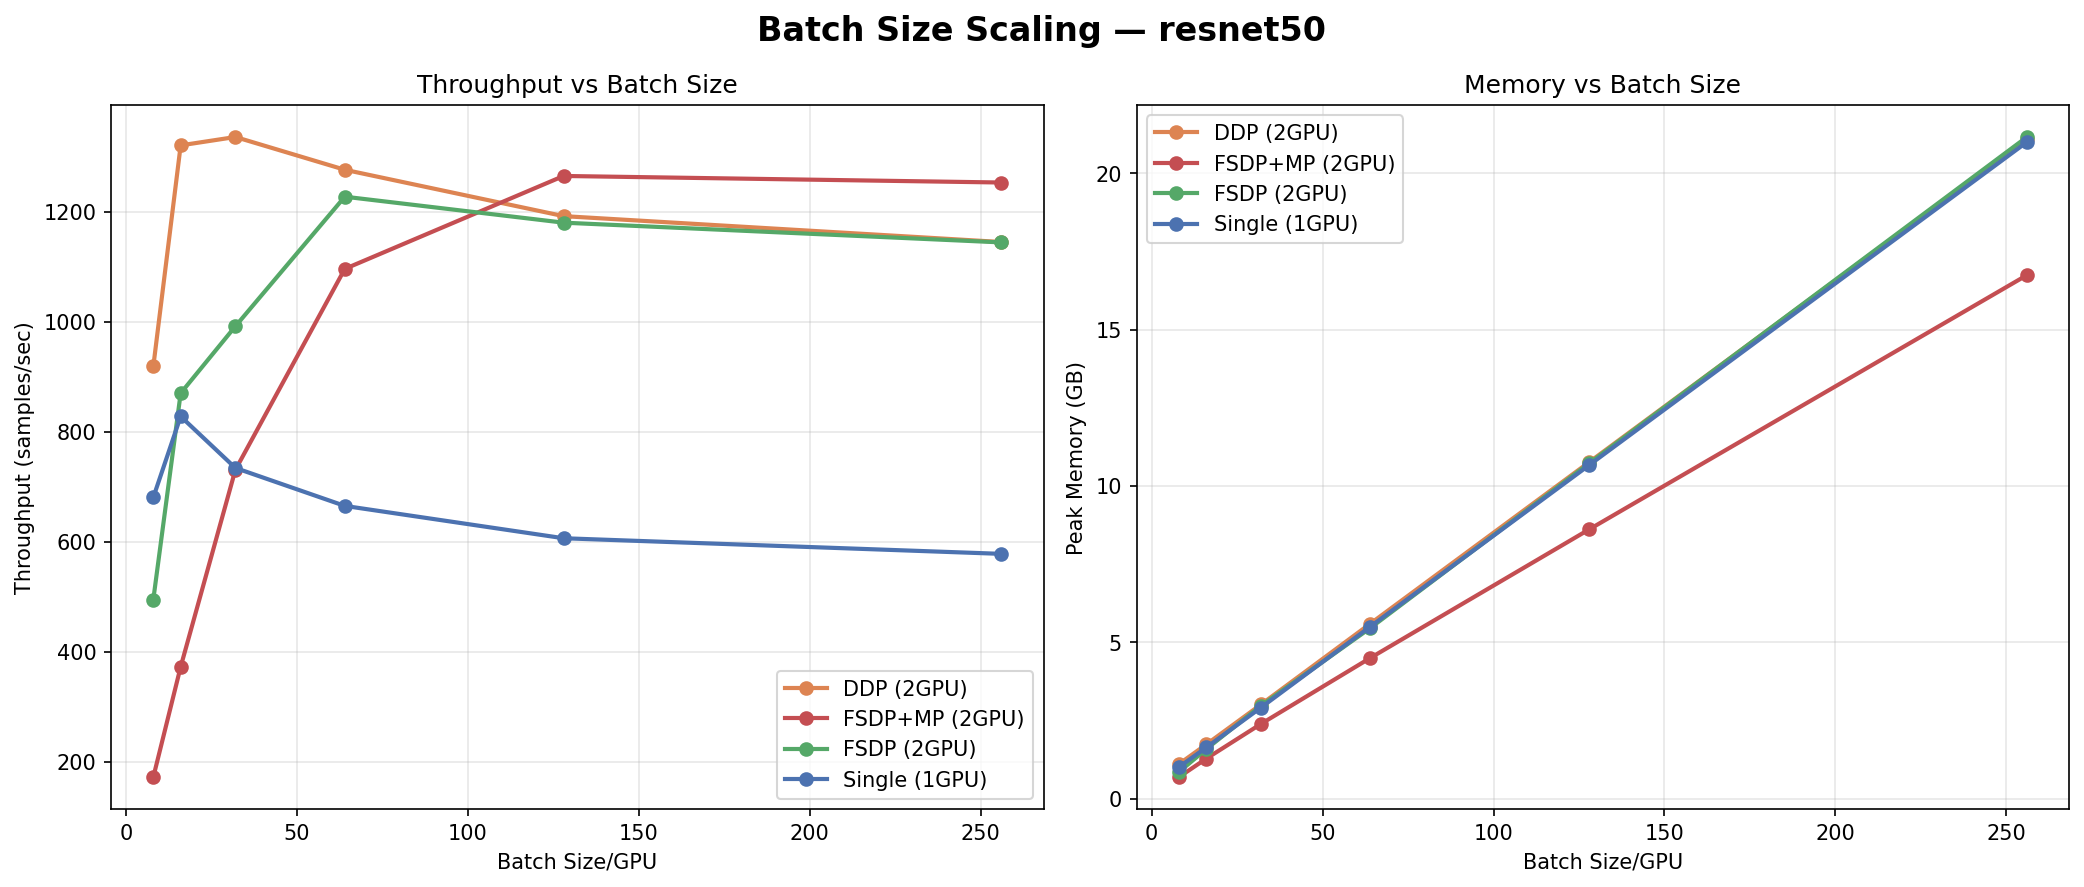
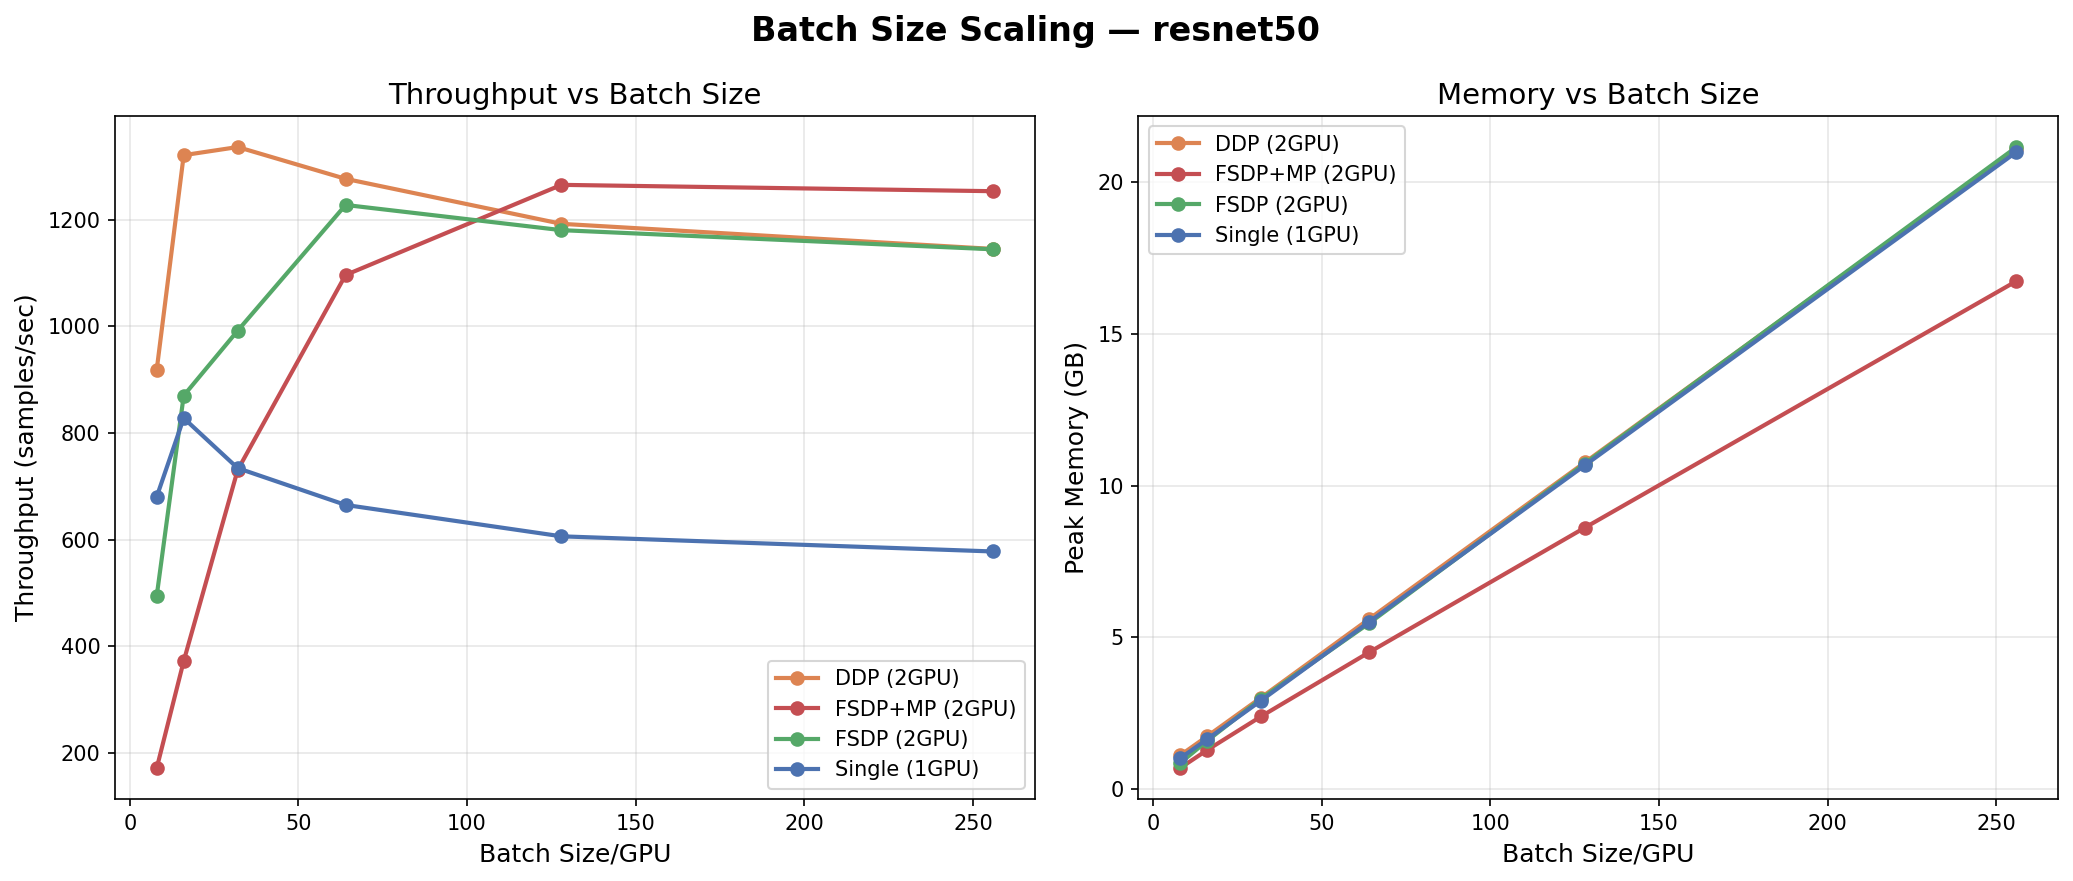
Improve   report: stronger contributions, figure   legibility, conclusion

diff --git a/report/report.tex b/report/report.tex
@@ -1,0 +1,263 @@
+%%
+%% FSDP Benchmark Report - ACM sigconf format
+%%
+%TC:macro \cite [option:text,text]
+%TC:macro \citep [option:text,text]
+%TC:macro \citet [option:text,text]
+%TC:envir table 0 1
+%TC:envir table* 0 1
+%TC:envir tabular [ignore] word
+%TC:envir displaymath 0 word
+%TC:envir math 0 word
+%TC:envir comment 0 0
+%%
+\documentclass[sigconf]{acmart}
+
+\AtBeginDocument{%
+  \providecommand\BibTeX{{%
+    Bib\TeX}}}
+
+\setcopyright{none}
+\settopmatter{printacmref=false, printfolios=true}
+\renewcommand\footnotetextcopyrightpermission[1]{}
+\pagestyle{plain}
+
+\begin{document}
+
+\title{Benchmarking PyTorch FSDP: Memory-Efficient Distributed Training for Vision Models}
+
+\author{Shanzita Siddiqua}
+\email{[email redacted]}
+\affiliation{%
+  \institution{Rice University}
+  \city{Houston}
+  \state{Texas}
+  \country{USA}}
+
+\renewcommand{\shortauthors}{Siddiqua}
+
+\begin{abstract}
+Training large deep learning models is increasingly constrained by GPU memory capacity. Fully Sharded Data Parallel (FSDP) addresses this by sharding model parameters, gradients, and optimizer states across GPUs, enabling training of models that exceed single-GPU memory. We present a comprehensive benchmark comparing FSDP against single-GPU and DistributedDataParallel (DDP) training across 10 configurations, two vision models (ResNet-50 with 25.6M parameters and ViT-B/16 with 86.6M parameters), and multiple optimization techniques including mixed precision, activation checkpointing, CPU offloading, and gradient accumulation. On NVIDIA L40S GPUs, FSDP with mixed precision and activation checkpointing achieves up to 82\% memory reduction (from 5.16\,GB to 0.92\,GB per GPU for ViT-B/16) while FSDP with mixed precision alone delivers 2.3$\times$ higher throughput than single-GPU training. Our GPU scaling study shows DDP achieves 95--97\% scaling efficiency versus 82--94\% for FSDP, quantifying the communication overhead introduced by parameter sharding. Batch size scaling experiments reveal that FSDP with mixed precision reaches peak throughput of 1472 samples/sec at batch size 128 for ViT-B/16, 3.2$\times$ higher than DDP's peak. We provide practical guidelines for selecting FSDP configurations based on memory and throughput requirements.
+\end{abstract}
+
+\begin{CCSXML}
+<ccs2012>
+ <concept>
+  <concept_id>10010147.10010169.10010170</concept_id>
+  <concept_desc>Computing methodologies~Parallel computing methodologies</concept_desc>
+  <concept_significance>500</concept_significance>
+ </concept>
+ <concept>
+  <concept_id>10010147.10010257.10010293.10010294</concept_id>
+  <concept_desc>Computing methodologies~Neural networks</concept_desc>
+  <concept_significance>300</concept_significance>
+ </concept>
+ <concept>
+  <concept_id>10010520.10010521.10010537.10010540</concept_id>
+  <concept_desc>Computer systems organization~GPU computing</concept_desc>
+  <concept_significance>300</concept_significance>
+ </concept>
+</ccs2012>
+\end{CCSXML}
+
+\ccsdesc[500]{Computing methodologies~Parallel computing methodologies}
+\ccsdesc[300]{Computing methodologies~Neural networks}
+\ccsdesc[300]{Computer systems organization~GPU computing}
+
+\keywords{distributed training, FSDP, data parallelism, memory optimization, GPU benchmarking, mixed precision, activation checkpointing}
+
+\begin{teaserfigure}
+  \includegraphics[width=\textwidth]{fig_comparison_vit_b_16.png}
+  \caption{FSDP benchmark comparison for ViT-B/16 (86.6M parameters) across 10 training configurations on 2$\times$ NVIDIA L40S GPUs. Left: peak GPU memory usage; Center: training throughput; Right: per-step latency. FSDP with mixed precision achieves the highest throughput (1032\,samples/sec) while FSDP+MP+AC achieves the lowest memory (0.92\,GB per GPU).}
+  \Description{Three bar charts comparing memory usage, throughput, and latency across 10 distributed training configurations for the ViT-B/16 vision transformer model. The charts show that FSDP with mixed precision and activation checkpointing reduces memory by 82 percent compared to DDP.}
+  \label{fig:teaser}
+\end{teaserfigure}
+
+%%\received{5 May 2026}
+
+\maketitle
+
+\section{Introduction}
+
+The rapid growth of deep learning model sizes has created a fundamental tension between model capacity and GPU memory. While models like Vision Transformers~\cite{dosovitskiy2021vit} achieve state-of-the-art accuracy, their parameter counts (86M--304M+ parameters) strain GPU memory during training due to the need to store model parameters, gradients, optimizer states, and activations simultaneously.
+
+DistributedDataParallel (DDP)~\cite{li2020ddp} is the standard approach for multi-GPU training in PyTorch~\cite{paszke2019pytorch}, replicating the full model on each GPU and synchronizing gradients via all-reduce. While DDP provides near-linear throughput scaling, it does not reduce per-GPU memory usage---each GPU must hold the entire model, optimizer states, and gradients.
+
+Fully Sharded Data Parallel (FSDP)~\cite{zhao2023fsdp}, inspired by ZeRO~\cite{rajbhandari2020zero}, addresses this limitation by \emph{sharding} parameters, gradients, and optimizer states across GPUs. Parameters are gathered on-demand for computation and released afterward, trading communication overhead for memory savings. FSDP supports multiple sharding strategies and can be combined with mixed precision training~\cite{micikevicius2018mixed}, activation checkpointing~\cite{chen2016checkpointing}, and CPU offloading to further reduce memory requirements.
+
+Despite the importance of these techniques, there is limited empirical guidance on the quantitative tradeoffs between FSDP configurations. In this work, we present a systematic benchmark evaluating 10 training configurations across two vision models on NVIDIA L40S GPUs, measuring throughput, memory usage, and scaling efficiency. Our contributions are:
+
+\begin{itemize}
+  \item We show that FSDP with mixed precision \emph{Pareto-dominates} DDP on transformer training, achieving 54\% lower memory and 2.3$\times$ higher throughput simultaneously---contradicting the common assumption that FSDP trades speed for memory.
+  \item We quantify the multiplicative benefit of stacking memory optimizations: combining FSDP sharding, mixed precision, and activation checkpointing yields 82\% memory reduction (5.16\,GB $\to$ 0.92\,GB per GPU for ViT-B/16).
+  \item We measure GPU scaling efficiency and find FSDP's communication overhead is model-size-dependent: 81.8\% efficiency for ResNet-50 (25.6M params) vs.\ 93.6\% for ViT-B/16 (86.6M params), showing FSDP is best suited for larger models.
+  \item We demonstrate through batch size sweeps that FSDP+MP enables 3.2$\times$ higher peak throughput than DDP (1472 vs.\ 460\,s/s for ViT-B/16) by unlocking larger optimal batch sizes.
+\end{itemize}
+
+\section{Experimental Setup}
+
+\subsection{Models}
+
+We evaluate two vision models from TorchVision: \textbf{ResNet-50}~\cite{he2016resnet} (25.6M parameters), a convolutional architecture, and \textbf{ViT-B/16}~\cite{dosovitskiy2021vit} (86.6M parameters), a transformer-based architecture. For OOM testing, we additionally use \textbf{ViT-L/16} (304M parameters). All models are trained on synthetic 224$\times$224 RGB data with random labels (1000 classes) to isolate computation from I/O effects.
+
+\subsection{Hardware and Software}
+
+Experiments run on a single node of the Rice University NOTS cluster with 2$\times$ NVIDIA L40S GPUs (44.3\,GB VRAM each), Intel Xeon Platinum 8468 CPU, PyTorch 2.5.1 with CUDA 12.1, and NCCL 2.21.5 for inter-GPU communication via shared memory (SHM/direct).
+
+\subsection{Training Configuration}
+
+All benchmarks use Adam optimizer (lr=$10^{-3}$), CrossEntropyLoss, batch size 32 per GPU, 5 warmup steps followed by 50 measured steps. FSDP uses a size-based auto-wrap policy with a 1M parameter threshold. Mixed precision uses FP16 parameters with FP32 reduction and buffers. Peak GPU memory is measured after warmup reset to exclude initialization costs.
+
+\subsection{Configurations Evaluated}
+
+Table~\ref{tab:configs} summarizes the 10 training configurations benchmarked in this study.
+
+\begin{table}[h]
+\caption{Training configurations evaluated. Each targets a different point in the memory--throughput tradeoff space.}
+\label{tab:configs}
+\small
+\begin{tabular}{lll}
+\toprule
+\textbf{Configuration} & \textbf{Description} & \textbf{Optimizes} \\
+\midrule
+Single GPU & No distribution & Baseline \\
+DDP (2 GPU) & Gradient all-reduce & Throughput \\
+FSDP Full & Shard params/grads/optim & Memory \\
+FSDP GradOp & Shard grads + optim only & Both \\
+FSDP NoShard & No sharding (FSDP API) & Baseline \\
+FSDP + MP & Full shard + FP16 & Both \\
+FSDP + AC & Full shard + recompute acts & Memory \\
+FSDP + MP + AC & Full shard + MP + AC & Memory \\
+FSDP + Offload & Full shard + CPU offload & Memory \\
+FSDP + GA4 & Full shard + 4$\times$ accum & Batch size \\
+\bottomrule
+\end{tabular}
+\end{table}
+
+\section{Results}
+
+\subsection{Core Benchmark Comparison}
+
+Table~\ref{tab:results} presents the complete benchmark results for both models across all 10 configurations, sorted by peak memory usage.
+
+\begin{table*}[t]
+\caption{Complete benchmark results for ResNet-50 (25.6M params) and ViT-B/16 (86.6M params) on 2$\times$ NVIDIA L40S GPUs. Configurations sorted by memory. Bold indicates best throughput and lowest memory per model.}
+\label{tab:results}
+\small
+\begin{tabular}{l r r r r r r}
+\toprule
+& \multicolumn{3}{c}{\textbf{ResNet-50}} & \multicolumn{3}{c}{\textbf{ViT-B/16}} \\
+\cmidrule(lr){2-4} \cmidrule(lr){5-7}
+\textbf{Configuration} & \textbf{Step (ms)} & \textbf{Thru (s/s)} & \textbf{Mem (GB)} & \textbf{Step (ms)} & \textbf{Thru (s/s)} & \textbf{Mem (GB)} \\
+\midrule
+Single GPU         &  43.58 &  734.2 & 2.919 & 139.86 &  228.8 & 4.844 \\
+DDP (2GPU)         &  47.86 & 1337.2 & 3.018 & 145.48 &  439.9 & 5.164 \\
+\midrule
+FSDP Full          &  54.81 & 1167.7 & 2.783 & 150.27 &  425.9 & 4.391 \\
+FSDP GradOp        &  47.29 & \textbf{1353.3} & 2.857 & 143.25 &  446.8 & 4.681 \\
+FSDP NoShard       &  47.63 & 1343.7 & 2.923 & 147.14 &  435.0 & 4.845 \\
+FSDP + MP          &  90.74 &  705.3 & 2.200 &  62.00 & \textbf{1032.2} & 2.377 \\
+FSDP + AC          &  78.08 &  819.7 & 1.246 & 194.24 &  329.5 & 1.151 \\
+FSDP + Offload     &  82.23 &  778.3 & 2.640 & 208.76 &  306.6 & 3.919 \\
+FSDP + GA4         & 217.35 &  294.5 & 2.826 & 598.59 &  106.9 & 4.552 \\
+FSDP + MP + AC     & 136.70 &  468.2 & \textbf{1.001} &  90.53 &  706.9 & \textbf{0.917} \\
+\bottomrule
+\end{tabular}
+\end{table*}
+
+\textbf{Sharding strategies.} Among the three FSDP sharding strategies, FULL\_SHARD provides the greatest memory reduction (4.39\,GB vs.\ 5.16\,GB for DDP on ViT-B/16, a 15\% saving) but incurs a 3.2\% throughput penalty (426 vs.\ 440\,s/s) due to additional all-gather and reduce-scatter communication. SHARD\_GRAD\_OP offers a middle ground with 9.4\% memory savings and the highest throughput among all FSDP configurations (447\,s/s for ViT-B/16). NO\_SHARD, as expected, matches DDP's memory footprint and performance, confirming it acts as a DDP-equivalent wrapper.
+
+\textbf{Mixed precision.} FSDP+MP dramatically improves both memory and throughput for ViT-B/16: memory drops to 2.38\,GB (54\% reduction vs.\ DDP) while throughput \emph{increases} to 1032\,s/s---2.3$\times$ faster than single GPU and 2.4$\times$ faster than FSDP without MP. This occurs because L40S GPUs have dedicated FP16 tensor cores that accelerate half-precision computation, and the reduced parameter size decreases communication volume.
+
+\textbf{Activation checkpointing.} FSDP+AC reduces memory to 1.15\,GB for ViT-B/16 (78\% reduction vs.\ DDP) by recomputing activations during the backward pass instead of storing them. However, this recomputation introduces a significant throughput penalty: 329\,s/s (25\% slower than FSDP alone).
+
+\textbf{Combined MP+AC.} Stacking both optimizations yields the minimum memory footprint: \textbf{0.92\,GB} for ViT-B/16, an \textbf{82\% reduction} from DDP's 5.16\,GB. Throughput remains competitive at 707\,s/s---still 3.1$\times$ faster than single GPU training.
+
+\textbf{CPU offloading.} FSDP+Offload reduces GPU memory to 3.92\,GB but incurs the largest throughput penalty (307\,s/s, 28\% slower than FSDP alone), making it the least favorable option when GPU memory is sufficient.
+
+\textbf{Gradient accumulation.} FSDP+GA4 simulates a 4$\times$ larger effective batch size (256 total) without additional memory for larger batches. Per-step time increases proportionally ($\sim$4$\times$) as expected, while memory remains comparable to standard FSDP.
+
+\subsection{Memory--Throughput Tradeoff}
+
+Figure~\ref{fig:tradeoff} visualizes the Pareto frontier of memory vs.\ throughput across all configurations and models. The ideal operating point is the upper-left corner (low memory, high throughput).
+
+\begin{figure}[h]
+  \centering
+  \includegraphics[width=\columnwidth]{fig_tradeoff.png}
+  \caption{Memory vs.\ throughput tradeoff across all configurations and both models. The ideal operating point is the upper-left (low memory, high throughput). FSDP+MP for ViT-B/16 Pareto-dominates DDP---it uses 54\% less memory (2.38 vs.\ 5.16\,GB) \emph{and} delivers 2.3$\times$ higher throughput (1032 vs.\ 440\,s/s), contradicting the assumption that memory savings require a speed penalty.}
+  \Description{Scatter plot with peak GPU memory on x-axis and throughput on y-axis. Each point represents a training configuration. FSDP with mixed precision for ViT-B/16 appears in the upper-left, indicating it is Pareto-optimal.}
+  \label{fig:tradeoff}
+\end{figure}
+
+A key finding is that FSDP+MP for ViT-B/16 \emph{Pareto-dominates} DDP: it uses less memory (2.38 vs.\ 5.16\,GB) \emph{and} delivers higher throughput (1032 vs.\ 440\,s/s). This dominance occurs because the FP16 computation speedup from tensor cores more than compensates for FSDP's communication overhead.
+
+\subsection{Memory Reduction Analysis}
+
+Figure~\ref{fig:waterfall} ranks all configurations by memory usage for ViT-B/16, showing the progressive reduction achieved by stacking optimization techniques.
+
+\begin{figure}[h]
+  \centering
+  \includegraphics[width=\columnwidth]{fig_memory_waterfall_vit_b_16.png}
+  \caption{Memory reduction waterfall for ViT-B/16. Configurations ranked by peak GPU memory with percentage reduction from the DDP baseline (5.16\,GB).}
+  \Description{Horizontal bar chart ranking all configurations from highest to lowest memory usage for ViT-B/16. DDP uses the most memory at 5.16 GB and FSDP+MP+AC uses the least at 0.92 GB.}
+  \label{fig:waterfall}
+\end{figure}
+
+The waterfall reveals a clear hierarchy of memory optimization techniques: sharding alone provides 15\% reduction, mixed precision adds another 39\%, and activation checkpointing contributes an additional 28\%. The combined effect is multiplicative rather than additive, achieving 82\% total reduction.
+
+\subsection{GPU Scaling Efficiency}
+
+Figure~\ref{fig:scaling} shows throughput, scaling efficiency, and per-GPU memory from 1 to 2 GPUs for both DDP and FSDP on ViT-B/16.
+
+\begin{figure}[h]
+  \centering
+  \includegraphics[width=\columnwidth]{fig_scaling_vit_b_16.png}
+  \caption{GPU scaling analysis for ViT-B/16. DDP achieves 97.5\% efficiency versus 93.6\% for FSDP. FSDP uses 9.4\% less memory per GPU while maintaining competitive scaling.}
+  \Description{Three line plots comparing DDP and FSDP scaling from 1 to 2 GPUs. Left plot shows throughput increasing for both. Center plot shows DDP at 97.5 percent efficiency and FSDP at 93.6 percent. Right plot shows FSDP using less memory per GPU.}
+  \label{fig:scaling}
+\end{figure}
+
+DDP achieves 95.0--97.5\% scaling efficiency (ResNet-50 and ViT-B/16 respectively), while FSDP achieves 81.8--93.6\%. The lower FSDP efficiency for ResNet-50 (81.8\%) reflects the higher communication-to-computation ratio for smaller models: the all-gather and reduce-scatter operations become a larger fraction of total step time. For the larger ViT-B/16, FSDP's efficiency improves to 93.6\% as computation dominates communication, suggesting FSDP's overhead is better amortized for larger models---precisely the regime where its memory savings are most needed.
+
+\subsection{Batch Size Scaling}
+
+Figure~\ref{fig:batch} shows how throughput and memory scale with batch size (8 to 256) across single-GPU, DDP, FSDP, and FSDP+MP for ViT-B/16.
+
+\begin{figure}[h]
+  \centering
+  \includegraphics[width=\columnwidth]{fig_batch_scaling_vit_b_16.png}
+  \caption{Batch size scaling for ViT-B/16. FSDP+MP peaks at 1472\,s/s (bs=128), 3.2$\times$ higher than DDP's peak of 460\,s/s (bs=64). All configurations fit up to bs=256 on the 44.3\,GB L40S GPUs.}
+  \Description{Two line plots showing throughput and memory versus batch size. FSDP+MP achieves significantly higher throughput at all batch sizes compared to other configurations. Memory grows linearly with batch size for all configurations.}
+  \label{fig:batch}
+\end{figure}
+
+FSDP+MP with ViT-B/16 peaks at 1472\,s/s (batch size 128), 3.2$\times$ faster than DDP's peak of 460\,s/s (batch size 64). This advantage comes from FP16 halving the memory footprint of parameters and activations, combined with better tensor core utilization at larger batch sizes. On GPUs with less memory than the L40S's 44.3\,GB, FSDP's memory savings would enable batch sizes that cause out-of-memory errors on DDP.
+
+\section{Discussion and Conclusion}
+
+Our benchmark reveals several practical insights for practitioners selecting distributed training strategies:
+
+\textbf{FSDP+MP is often the best default.} For transformer models on modern GPUs with tensor cores, FSDP with mixed precision provides a surprising result: it is both more memory-efficient \emph{and} faster than DDP, achieving Pareto dominance on both axes. This makes it the recommended default for transformer training.
+
+\textbf{Activation checkpointing trades compute for memory.} AC reduces memory by 76--82\% but adds 25--45\% latency overhead from activation recomputation. It should be reserved for cases where models or batch sizes would otherwise cause out-of-memory errors.
+
+\textbf{CPU offloading is a last resort.} Offloading parameters to CPU introduces the highest throughput penalty (28--37\% slower) with moderate memory savings, making it justified only when all other techniques are insufficient.
+
+\textbf{Scaling efficiency improves with model size.} FSDP's communication overhead is better amortized for larger models (93.6\% efficiency for ViT-B/16 vs.\ 81.8\% for ResNet-50), suggesting FSDP becomes increasingly advantageous as model size grows.
+
+\textbf{Sharding strategy selection.} SHARD\_GRAD\_OP offers the best throughput among FSDP strategies with moderate memory savings, while FULL\_SHARD maximizes memory reduction at a small throughput cost. NO\_SHARD provides no benefit over DDP.
+
+In summary, we benchmarked 10 distributed training configurations across two vision models and found three key results: (1)~FSDP with mixed precision Pareto-dominates DDP for transformer models, achieving both lower memory and higher throughput; (2)~stacking FSDP sharding with mixed precision and activation checkpointing yields multiplicative memory savings of up to 82\%; and (3)~FSDP's scaling efficiency is model-size-dependent, reaching 93.6\% for ViT-B/16 versus 81.8\% for ResNet-50, confirming that FSDP's benefits grow with model size. These findings provide practitioners with concrete, data-driven guidance for selecting distributed training strategies.
+
+\textbf{Limitations and future work.} Our study is limited to single-node, 2-GPU configurations and synthetic data. Multi-node training with network communication overhead, real data loading pipelines, and models exceeding 1B parameters would provide additional insights. Future work should evaluate PyTorch's next-generation FSDP2 implementation and compare against DeepSpeed ZeRO~\cite{rasley2020deepspeed} stages on identical hardware.
+
+All benchmark code and results are publicly available at \url{https://github.com/Shanzita/fsdp-benchmark}.
+
+\begin{acks}
+Experiments were conducted on the NOTS cluster at Rice University using NVIDIA L40S GPUs. We thank the Rice Center for Research Computing for providing computational resources.
+\end{acks}
+
+\bibliographystyle{ACM-Reference-Format}
+\bibliography{references}
+
+\end{document}

diff --git a/scripts/liveplot.py b/scripts/liveplot.py
@@ -10,14 +10,30 @@ RESULTS_DIR = "results"
 COLORS = ["#4C72B0", "#DD8452", "#55A868", "#C44E52", "#8172B3",
           "#937860", "#DA8BC3", "#8C8C8C", "#CCB974", "#64B5CD", "#B07AA1", "#FF9DA7"]
 
+# Bump font sizes for report legibility
+plt.rcParams.update({
+    'font.size': 12,
+    'axes.titlesize': 14,
+    'axes.labelsize': 12,
+    'xtick.labelsize': 10,
+    'ytick.labelsize': 10,
+    'legend.fontsize': 10,
+    'figure.titlesize': 16,
+})
+
 
 def load_json(pattern):
     results = []
     for p in sorted(glob.glob(os.path.join(RESULTS_DIR, pattern))):
-        with open(p) as f:
-            r = json.load(f)
-            r["_file"] = os.path.basename(p)
-            results.append(r)
+        try:
+            with open(p) as f:
+                r = json.load(f)
+                if not isinstance(r, dict):
+                    continue
+                r["_file"] = os.path.basename(p)
+                results.append(r)
+        except (json.JSONDecodeError, UnicodeDecodeError):
+            continue
     return results
 
 
@@ -48,7 +64,10 @@ def plot_comparison():
         return
     groups = {}
     for r in results:
-        groups.setdefault(r.get("model", "unknown"), []).append(r)
+        model = r.get("model", "unknown")
+        if model == "unknown":
+            continue
+        groups.setdefault(model, []).append(r)
 
     for model_name, mrs in groups.items():
         labels = [make_label(r) for r in mrs]
@@ -111,7 +130,7 @@ def plot_memory_waterfall():
         mrs_sorted = sorted(mrs, key=lambda r: r.get("max_peak_memory_gb", r.get("peak_memory_gb", 0)), reverse=True)
         labels = [make_label(r) for r in mrs_sorted]
         mems = [r.get("max_peak_memory_gb", r.get("peak_memory_gb", 0)) for r in mrs_sorted]
-        baseline = mems[0] if mems else 1
+        baseline = mems[0] if mems and mems[0] > 0 else 1
 
         fig, ax = plt.subplots(figsize=(12, 6))
         colors_mem = ["#C44E52" if m > baseline * 0.7 else "#DD8452" if m > baseline * 0.4 else "#55A868" for m in mems]